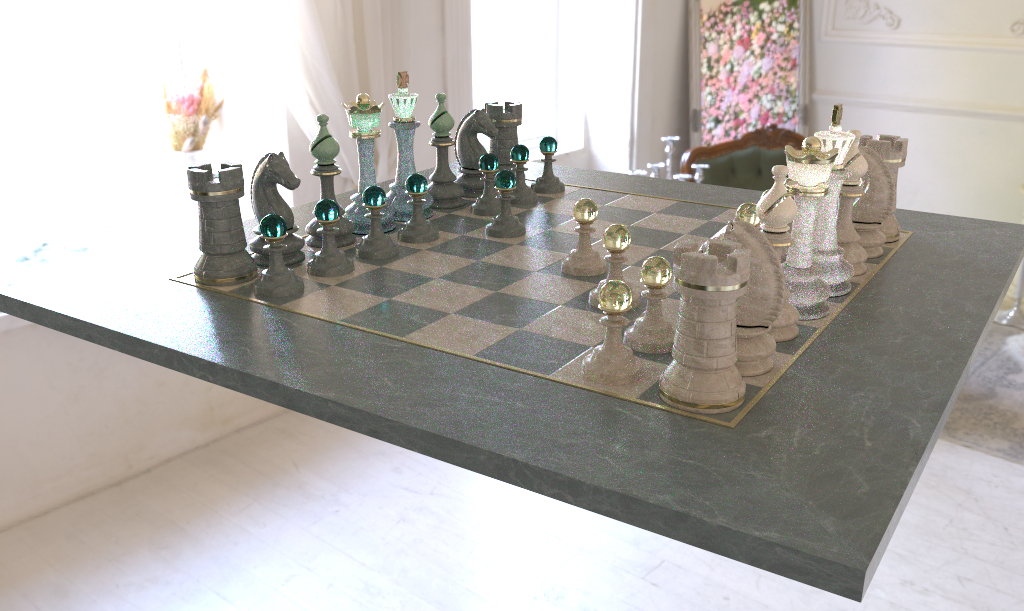
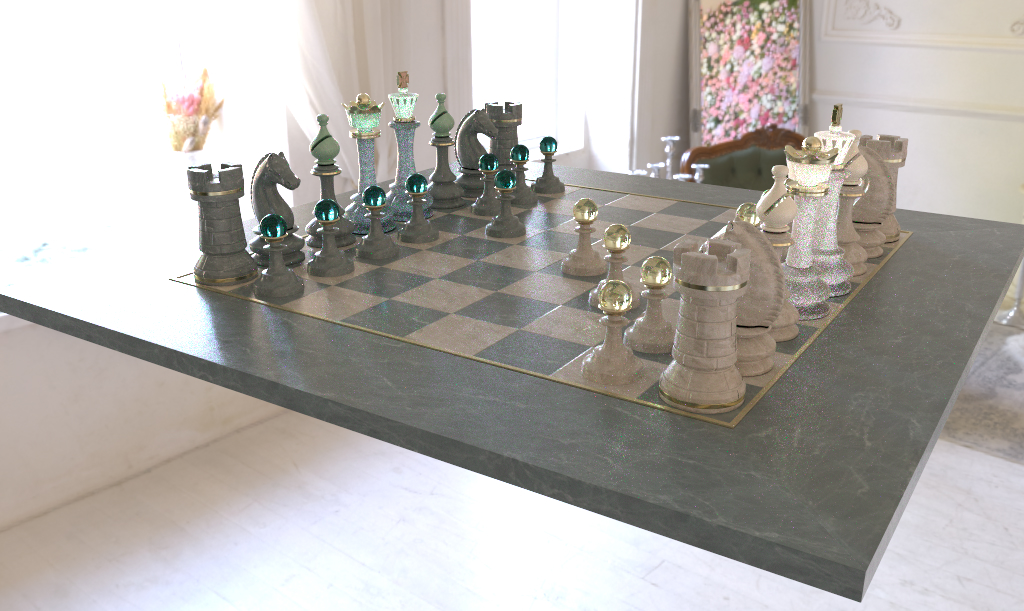
Importance sample lat-long dome lights

Changed region(s): [[0.1562, 0.1244, 0.6875, 0.7774], [0.7188, 0.2177, 0.8438, 0.7463], [0.6875, 0.3732, 0.7188, 0.4043]]

diff --git a/src/gpu/vulkan_path_tracer.cpp b/src/gpu/vulkan_path_tracer.cpp
@@ -11,8 +11,10 @@
 #include <cmath>
 #include <cstring>
 #include <functional>
+#include <map>
 #include <stdexcept>
 #include <string>
+#include <vector>
 
 namespace hdcodex {
 namespace {
@@ -537,16 +539,98 @@ vec3 environment(vec3 direction)
     return result;
 }
 
-float environmentLightPdf()
+vec3 latLongDirection(vec2 uv)
+{
+    const float pi = 3.14159265359;
+    float theta = pi * (1.0 - uv.y);
+    float phi = 2.0 * pi * uv.x;
+    float sineTheta = sin(theta);
+    return vec3(sineTheta * sin(phi), cos(theta),
+                -sineTheta * cos(phi));
+}
+
+vec3 uniformSphere(inout uint state);
+
+float domeLightPdf(GpuLight light, vec3 worldDirection)
+{
+    if (light.textureInfo.w == 0xffffffffu) return 1.0 / 12.5663706144;
+    vec3 localDirection = normalize(vec3(
+        dot(worldDirection, light.basisX.xyz),
+        dot(worldDirection, light.basisY.xyz),
+        dot(worldDirection, light.basisZ.xyz)));
+    vec2 uv = domeTextureCoordinates(localDirection, light.textureInfo.y);
+    uint importanceIndex = light.textureInfo.w;
+    ivec2 dimensions = textureSize(
+        materialTextures[nonuniformEXT(importanceIndex)], 0);
+    ivec2 texel = clamp(ivec2(uv * vec2(dimensions)),
+                        ivec2(0), dimensions - ivec2(1));
+    return max(texelFetch(materialTextures[nonuniformEXT(importanceIndex)],
+                          texel, 0).b, 0.0);
+}
+
+void sampleDomeLight(GpuLight light, inout uint rng,
+                     out vec3 worldDirection, out float pdf)
+{
+    if (light.textureInfo.w == 0xffffffffu) {
+        worldDirection = uniformSphere(rng);
+        pdf = 1.0 / 12.5663706144;
+        return;
+    }
+    uint importanceIndex = light.textureInfo.w;
+    ivec2 dimensions = textureSize(
+        materialTextures[nonuniformEXT(importanceIndex)], 0);
+    float rowTarget = randomFloat(rng);
+    int low = 0;
+    int high = dimensions.y - 1;
+    while (low < high) {
+        int middle = (low + high) / 2;
+        float cdf = texelFetch(
+            materialTextures[nonuniformEXT(importanceIndex)],
+            ivec2(0, middle), 0).g;
+        if (rowTarget <= cdf) high = middle;
+        else low = middle + 1;
+    }
+    int row = low;
+    float columnTarget = randomFloat(rng);
+    low = 0;
+    high = dimensions.x - 1;
+    while (low < high) {
+        int middle = (low + high) / 2;
+        float cdf = texelFetch(
+            materialTextures[nonuniformEXT(importanceIndex)],
+            ivec2(middle, row), 0).r;
+        if (columnTarget <= cdf) high = middle;
+        else low = middle + 1;
+    }
+    int column = low;
+    const float pi = 3.14159265359;
+    float v0 = float(row) / float(dimensions.y);
+    float v1 = float(row + 1) / float(dimensions.y);
+    float cosine0 = cos(pi * (1.0 - v0));
+    float cosine1 = cos(pi * (1.0 - v1));
+    float cosineTheta = mix(cosine0, cosine1, randomFloat(rng));
+    float v = 1.0 - acos(clamp(cosineTheta, -1.0, 1.0)) / pi;
+    float u = (float(column) + randomFloat(rng)) / float(dimensions.x);
+    vec3 localDirection = latLongDirection(vec2(u, v));
+    worldDirection = normalize(
+        light.basisX.xyz * localDirection.x +
+        light.basisY.xyz * localDirection.y +
+        light.basisZ.xyz * localDirection.z);
+    pdf = max(texelFetch(materialTextures[nonuniformEXT(importanceIndex)],
+                         ivec2(column, row), 0).b, 0.0);
+}
+
+float environmentLightPdf(vec3 direction)
 {
     uint lightCount = (camera.frame.w >> 16u) & 0xffu;
     if (lightCount == 0u) return 0.0;
-    uint domeCount = 0u;
+    float pdf = 0.0;
     for (uint index = 0u; index < lightCount; ++index) {
-        if (lights[index].textureInfo.z == 0u) ++domeCount;
+        if (lights[index].textureInfo.z == 0u) {
+            pdf += domeLightPdf(lights[index], direction);
+        }
     }
-    return float(domeCount) /
-        (float(lightCount) * 12.5663706144);
+    return pdf / float(lightCount);
 }
 
 vec4 sampleMaterialTexture(uint textureIndex, vec2 uv, vec4 fallbackValue)
@@ -967,7 +1051,7 @@ void main()
         {
             if (environmentOnMiss) {
                 float misWeight = previousWasDelta ? 1.0 : powerHeuristic(
-                    previousBsdfPdf, environmentLightPdf());
+                    previousBsdfPdf, environmentLightPdf(rayDirection));
                 radiance += throughput * misWeight * vec3(illuminantSpectrum(
                     environment(rayDirection), wavelength));
             }
@@ -1168,9 +1252,10 @@ R"glsl(
             float inversePdf = 0.0;
             float maximumShadowDistance = 10000.0;
             if (light.textureInfo.z == 0u) {
-                lightDirection = uniformSphere(rng);
+                float lightPdf = 0.0;
+                sampleDomeLight(light, rng, lightDirection, lightPdf);
                 lightRadiance = sampleDome(light, lightDirection);
-                inversePdf = 12.5663706144;
+                inversePdf = lightPdf > 0.0 ? 1.0 / lightPdf : 0.0;
             } else {
                 vec2 lightUv = vec2(randomFloat(rng), randomFloat(rng));
                 vec3 lightPosition = light.position.xyz +
@@ -1215,7 +1300,7 @@ R"glsl(
                     vec3 spectralVisibility = vec3(reflectanceSpectrum(
                         visibility, wavelength));
                     float misWeight = light.textureInfo.z == 0u
-                        ? powerHeuristic(environmentLightPdf(),
+                        ? powerHeuristic(environmentLightPdf(lightDirection),
                             surfaceReflectionPdf(
                                 normal, tangent, viewDirection, lightDirection,
                                 roughness, coatRoughness, sheenProbability,
@@ -1466,6 +1551,83 @@ struct GpuLight {
 };
 
 static_assert(sizeof(GpuLight) == 13U * 16U);
+
+float SrgbToLinear(float value)
+{
+    return value <= 0.04045F
+        ? value / 12.92F
+        : std::pow((value + 0.055F) / 1.055F, 2.4F);
+}
+
+SceneTexture BuildLatLongImportanceTexture(const SceneTexture& source)
+{
+    SceneTexture result;
+    if (source.width == 0U || source.height == 0U ||
+        (source.rgba.empty() && source.rgbaFloat.empty())) {
+        return result;
+    }
+
+    const std::size_t pixelCount = static_cast<std::size_t>(source.width) *
+        static_cast<std::size_t>(source.height);
+    std::vector<float> luminance(pixelCount, 0.0F);
+    std::vector<double> weights(pixelCount, 0.0);
+    std::vector<double> rowWeights(source.height, 0.0);
+    constexpr double pi = 3.14159265358979323846;
+    const double deltaPhi = 2.0 * pi / static_cast<double>(source.width);
+    double totalWeight = 0.0;
+    for (std::uint32_t y = 0U; y < source.height; ++y) {
+        const double v0 = static_cast<double>(y) / source.height;
+        const double v1 = static_cast<double>(y + 1U) / source.height;
+        const double cosine0 = std::cos(pi * (1.0 - v0));
+        const double cosine1 = std::cos(pi * (1.0 - v1));
+        const double solidAngle = deltaPhi * std::abs(cosine1 - cosine0);
+        for (std::uint32_t x = 0U; x < source.width; ++x) {
+            const std::size_t pixel = static_cast<std::size_t>(y) * source.width + x;
+            const std::size_t offset = pixel * 4U;
+            std::array<float, 3> rgb{};
+            for (std::size_t channel = 0U; channel < 3U; ++channel) {
+                float value = !source.rgbaFloat.empty()
+                    ? source.rgbaFloat[offset + channel]
+                    : static_cast<float>(source.rgba[offset + channel]) / 255.0F;
+                if (source.rgbaFloat.empty() && source.srgb) value = SrgbToLinear(value);
+                rgb[channel] = std::isfinite(value) ? std::max(value, 0.0F) : 0.0F;
+            }
+            const float value = 0.2126F * rgb[0] + 0.7152F * rgb[1] +
+                0.0722F * rgb[2];
+            luminance[pixel] = value;
+            weights[pixel] = static_cast<double>(value) * solidAngle;
+            rowWeights[y] += weights[pixel];
+            totalWeight += weights[pixel];
+        }
+    }
+    if (!(totalWeight > 0.0) || !std::isfinite(totalWeight)) return result;
+
+    result.id = source.id + "#latlong-importance";
+    result.sourcePath = source.sourcePath;
+    result.width = source.width;
+    result.height = source.height;
+    result.rgbaFloat.resize(pixelCount * 4U);
+    double marginalCdf = 0.0;
+    for (std::uint32_t y = 0U; y < source.height; ++y) {
+        marginalCdf += rowWeights[y] / totalWeight;
+        double conditionalCdf = 0.0;
+        for (std::uint32_t x = 0U; x < source.width; ++x) {
+            const std::size_t pixel = static_cast<std::size_t>(y) * source.width + x;
+            conditionalCdf += rowWeights[y] > 0.0
+                ? weights[pixel] / rowWeights[y]
+                : 1.0 / static_cast<double>(source.width);
+            const std::size_t offset = pixel * 4U;
+            result.rgbaFloat[offset] = static_cast<float>(
+                x + 1U == source.width ? 1.0 : conditionalCdf);
+            result.rgbaFloat[offset + 1U] = static_cast<float>(
+                y + 1U == source.height ? 1.0 : marginalCdf);
+            result.rgbaFloat[offset + 2U] =
+                static_cast<float>(static_cast<double>(luminance[pixel]) / totalWeight);
+            result.rgbaFloat[offset + 3U] = 1.0F;
+        }
+    }
+    return result;
+}
 
 struct GpuTexcoord { float u, v; };
 
@@ -1898,7 +2060,7 @@ public:
         }
         GlslCompileOptions options;
         const std::string modeName(ShadingModeName(mode));
-        options.generatorVersion = "hdCodex.pathtracer.spectral.v14." + modeName;
+        options.generatorVersion = "hdCodex.pathtracer.spectral.v15." + modeName;
         options.materialAbi = "hdcodex.pathtracer.materialx-surface.v10." + modeName;
         if (mode == ShadingMode::Modular) {
             options.generateDebugInfo = true;
@@ -2017,6 +2179,7 @@ public:
         std::vector<GpuMaterial> materials;
         std::vector<GpuLight> lights;
         std::map<std::string, std::uint32_t, std::less<>> textureIndices;
+        std::map<std::string, const SceneTexture*, std::less<>> textureSources;
         std::map<std::string, std::vector<const SceneTexture*>, std::less<>> udimSets;
         textures.reserve(std::min<std::size_t>(
             snapshot->textures.size(), kMaxMaterialTextures));
@@ -2026,6 +2189,7 @@ public:
                 continue;
             }
             if (textures.size() >= kMaxMaterialTextures) continue;
+            textureSources[texture.id] = &texture;
             textureIndices[texture.id] = static_cast<std::uint32_t>(textures.size());
             textures.push_back(CreateTexture(texture));
         }
@@ -2050,6 +2214,28 @@ public:
         const auto textureIndex = [&textureIndices](const std::string& id) {
             const auto found = textureIndices.find(id);
             return found == textureIndices.end() ? kMissingTexture : found->second;
+        };
+        std::map<std::string, std::uint32_t, std::less<>> domeImportanceIndices;
+        const auto domeImportanceIndex = [&](const SceneLight& light) {
+            if (light.type != SceneLightType::Dome ||
+                (light.textureFormat != DomeTextureFormat::Automatic &&
+                 light.textureFormat != DomeTextureFormat::LatLong) ||
+                textureIndex(light.texture) == kMissingTexture) {
+                return kMissingTexture;
+            }
+            const auto cached = domeImportanceIndices.find(light.texture);
+            if (cached != domeImportanceIndices.end()) return cached->second;
+            const auto source = textureSources.find(light.texture);
+            if (source == textureSources.end() ||
+                textures.size() >= kMaxMaterialTextures) {
+                return kMissingTexture;
+            }
+            SceneTexture importance = BuildLatLongImportanceTexture(*source->second);
+            if (importance.rgbaFloat.empty()) return kMissingTexture;
+            const std::uint32_t index = static_cast<std::uint32_t>(textures.size());
+            textures.push_back(CreateTexture(importance));
+            domeImportanceIndices.emplace(light.texture, index);
+            return index;
         };
 
         lights.reserve(std::min<std::size_t>(snapshot->lights.size(), kMaxLights));
@@ -2082,7 +2268,8 @@ public:
                  light.shadowColor[2], 0.0F},
                 {textureIndex(light.texture),
                  static_cast<std::uint32_t>(light.textureFormat),
-                 static_cast<std::uint32_t>(light.type), 0U},
+                 static_cast<std::uint32_t>(light.type),
+                 domeImportanceIndex(light)},
             });
         }
         lightCount = static_cast<std::uint32_t>(lights.size());

diff --git a/docs/shading_development.md b/docs/shading_development.md
@@ -214,7 +214,7 @@ generated architecture.
 | Volume terminals | Unsupported; only one homogeneous interior transmission medium is tracked |
 | Caustics | Incidental and very inefficient for environment paths; no robust caustics from analytic lights |
 | Emission | Visible surface emission without emissive-geometry importance sampling or MIS |
-| Lights | Hydra DomeLight and RectLight only; power-heuristic MIS combines authored-dome NEE with non-delta BSDF paths, but dome directions remain uniform rather than texture-importance sampled |
+| Lights | Hydra DomeLight and RectLight only; power-heuristic MIS combines authored-dome NEE with non-delta BSDF paths, and automatic/lat-long domes use luminance/solid-angle texture importance sampling; other projections retain uniform sampling |
 | Geometry shaders | Displacement unsupported; subdivision uses coarse topology |
 | Hair | Hair BSDF and curve geometry unsupported |
 | Textures | Fixed repeat addressing, base mip only, no ray differentials, limited UDIM range, and role-based rather than graph-authored color handling |
@@ -351,7 +351,9 @@ labeled as a lighting preview rather than a path-transport reference.
 
 - Implemented: power-heuristic MIS between authored-dome next-event samples
   and non-delta diffuse, sheen, coat, and anisotropic-GGX continuation paths.
-- Power/texture-importance sampling for dome lights and emissive geometry.
+- Implemented: luminance/solid-angle texture-importance sampling for automatic
+  and lat-long dome lights, with matching direct and continuation-path PDFs.
+- Power sampling across lights and importance sampling for emissive geometry.
 - Extend BSDF/light MIS to emissive geometry and every future non-delta light
   representation.
 - Complete Hydra analytic light types, shaping, visibility, and light linking.

diff --git a/docs/architecture.md b/docs/architecture.md
@@ -75,13 +75,16 @@ authored RGB inputs into spectra, and integrates CIE XYZ only at the camera. It
 uploads as many as 64
 visible UsdLux DomeLight and RectLight records with their color temperature,
 intensity/exposure, diffuse/specular controls, shaping, texture, transform, and
-shadow parameters. Dome textures are evaluated for background rays and sampled
-uniformly for direct lighting. Power-heuristic MIS combines those authored-dome
-samples with non-delta BSDF continuation paths, including diffuse, anisotropic
-GGX, coat, and sheen proposal PDFs. Rectangles are sampled in area and converted
-to solid-angle measure. One authored light is selected per shading event and
-its selection probability is included in the estimator. RectLight `normalize`
-divides emitted radiance by world-space area as required by UsdLux.
+shadow parameters. Automatic-layout and lat-long dome textures build a compact
+luminance-times-solid-angle CDF when the scene is uploaded. Direct lighting
+samples that distribution and evaluates its matching solid-angle PDF; other
+dome projections use an unbiased uniform fallback. Power-heuristic MIS combines
+those authored-dome samples with non-delta BSDF continuation paths, including
+diffuse, anisotropic GGX, coat, and sheen proposal PDFs. Rectangles are sampled
+in area and converted to solid-angle measure. One authored light is selected
+per shading event and its selection probability is included in the estimator.
+RectLight `normalize` divides emitted radiance by world-space area as required
+by UsdLux.
 
 If the stage contains no supported authored lights, the shader falls back to a
 neutral analytic sky and a shadow-casting sun at 75° elevation with an oblique

diff --git a/README.md b/README.md
@@ -88,7 +88,9 @@ asset-input and display-output format, not the path-throughput representation.
 - HDR dome textures with lat-long, mirrored-ball, angular, and vertical-cross
   layouts.
 - Power-heuristic MIS between authored-dome next-event samples and non-delta
-  BSDF continuation paths; dome directions remain uniformly sampled.
+  BSDF continuation paths. Lat-long and automatic-layout HDR domes use
+  luminance/solid-angle texture importance sampling; other projections retain
+  an unbiased uniform-direction fallback.
 - Rectangle-light transforms, textured emission, area normalization, shaping,
   diffuse/specular multipliers, and colored distance-limited shadows.
 - Stable world-space fallback sky plus a shadow-casting sun at 75° elevation
